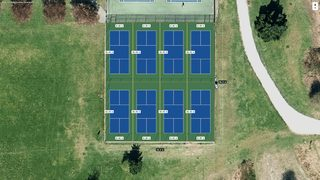
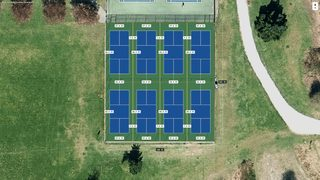
3d: feet by default (units=m for metres) and the spacing between neighbouring courts on the grid: 7.6 ft sideline to sideline, 16.4 ft baseline to baseline; grid pictures redone in feet, with metres versions of the aerial and plan
Claude-Session: https://claude.ai/code/session_01XZrTSL3wJyeVVwxpMARMFP

diff --git a/public/3d/index.html b/public/3d/index.html
@@ -103,7 +103,7 @@ body.clean #legend { top: 12px; }
     </div>
     <div class="bar" id="tools">
       <button data-t="grid">Grid</button>
-      <span class="units"><button data-u="m">m</button><button data-u="ft">ft</button></span>
+      <span class="units"><button data-u="ft">ft</button><button data-u="m">m</button></span>
       <button data-t="players">Players</button>
       <button data-t="lights">Lights</button>
     </div>
@@ -126,8 +126,8 @@ body.clean #legend { top: 12px; }
       <a class="th" href="/3d/media/grid-courtside.jpg" download><img src="/3d/media/thumb-grid-courtside.jpg" alt="" loading="lazy" width="320" height="180"><span>Courtside</span></a>
       <a class="th" href="/3d/media/grid-players.jpg" download><img src="/3d/media/thumb-grid-players.jpg" alt="" loading="lazy" width="320" height="180"><span>With players</span></a>
       <a class="th" href="/3d/media/grid-today.jpg" download><img src="/3d/media/thumb-grid-today.jpg" alt="" loading="lazy" width="320" height="180"><span>Today</span></a>
-      <a class="th" href="/3d/media/grid-above-feet.jpg" download><img src="/3d/media/thumb-grid-above-feet.jpg" alt="" loading="lazy" width="320" height="180"><span>From above, feet</span></a>
-      <a class="th" href="/3d/media/grid-aerial-feet.jpg" download><img src="/3d/media/thumb-grid-aerial-feet.jpg" alt="" loading="lazy" width="320" height="180"><span>Aerial, feet</span></a>
+      <a class="th" href="/3d/media/grid-above-metres.jpg" download><img src="/3d/media/thumb-grid-above-metres.jpg" alt="" loading="lazy" width="320" height="180"><span>From above, metres</span></a>
+      <a class="th" href="/3d/media/grid-aerial-metres.jpg" download><img src="/3d/media/thumb-grid-aerial-metres.jpg" alt="" loading="lazy" width="320" height="180"><span>Aerial, metres</span></a>
     </div>
     <h3>Without grid</h3>
     <div class="thumbs">
@@ -176,7 +176,7 @@ const PALETTES = [
   { id: 'slate', name: 'Blue on grey', surround: '#6b7470', court: '#2f5f9c', kitchen: '#2f5f9c' },
 ];
 
-const state = { view: 'aerial', mode: 'proposed', dividers: 'ft4', screen: true, palette: 'classic', players: true, lights: false, dusk: false, spin: false, grid: false, units: 'm' };
+const state = { view: 'aerial', mode: 'proposed', dividers: 'ft4', screen: true, palette: 'classic', players: true, lights: false, dusk: false, spin: false, grid: false, units: 'ft' };
 
 // ---------- renderer / scene ----------
 const stage = document.getElementById('stage');
@@ -503,6 +503,13 @@ xs.push(PAD_W / 2); zs.push(PAD_L / 2);
 // each chunk: its width near the outer fence, its length just inside its west edge
 const chunkW = courts.map((c) => label('', new THREE.Vector3(c.x, TOP, c.z > 0 ? PAD_L / 2 - 1 : -PAD_L / 2 + 1), { court: true }));
 const chunkL = courts.map((c) => label('', new THREE.Vector3(c.x - BAY_W / 2 + 1, TOP, c.z), { court: true }));
+// the spacing between neighbouring courts: sideline to sideline across each row (toward the outer fence, clear of the
+// chunk labels), and baseline to baseline between the two rows (down each column)
+for (let r = 0; r < ROWS; r++) for (let c = 0; c < COLS - 1; c++) {
+  const a = courts[r * COLS + c], b = courts[r * COLS + c + 1];
+  chain('x', [a.x + CW / 2, b.x - CW / 2], a.z + Math.sign(a.z) * 4.5, { court: true, prio: 0 });
+}
+for (let c = 0; c < COLS; c++) chain('z', [courts[c].z + CL / 2, courts[COLS + c].z - CL / 2], courts[c].x, { court: true, prio: 0 });
 // the whole place
 chain('x', [-PAD_W / 2, PAD_W / 2], PAD_L / 2 + 2.6, { cls: 'total' });
 chain('z', [-PAD_L / 2, PAD_L / 2], PAD_W / 2 + 2.6, { cls: 'total' });
@@ -511,7 +518,7 @@ function buildGrid() {
   if (gridUnits === state.units) return;
   gridUnits = state.units;
   for (const c of chains) {
-    const ft = Math.round(c.len / FT) + ' ft', m = c.len.toFixed(1) + ' m';
+    const ft = ftOf(c.len) + ' ft', m = mOf(c.len) + ' m';
     c.d.text = c.d.el.textContent = c.pre + (c.both ? (state.units === 'm' ? `${m} · ${ft}` : `${ft} · ${m}`) : state.units === 'm' ? m : ft);
   }
   const len = (m) => (state.units === 'm' ? m.toFixed(2) + ' m' : (m / FT).toFixed(1) + ' ft');
@@ -653,7 +660,7 @@ function stepReveal(dt) {
 }
 
 // ---------- every setting lives in the link ----------
-// ?mode=today|proposed &view=aerial|west|above|courtside|park|close &grid=1 &units=m|ft &fence=0|3|4 &screen=0
+// ?mode=today|proposed &view=aerial|west|above|courtside|park|close &grid=1 &units=ft|m &fence=0|3|4 &screen=0
 // &players=0 &lights=1 &dusk=1 &spin=1 &colour=classic|twotone|teal|slate &cam=x,y,z,tx,ty,tz,fov &ui=0 (no buttons)
 const DEF = { mode: 'proposed', screen: true, players: true, lights: false, dusk: false, spin: false };
 const VIEW_ALIAS = { west: 'aerial-west', above: 'plan', top: 'plan', courtside: 'court', park: 'wide', players: 'close' };
@@ -665,7 +672,7 @@ function readURL() {
   let v = (q.get('view') || location.hash.slice(1) || 'aerial').toLowerCase(); v = VIEW_ALIAS[v] || v;
   state.view = v in VIEWS || v === 'plan' ? v : 'aerial';
   state.mode = q.get('mode') === 'today' ? 'today' : 'proposed';
-  state.grid = b('grid', false); state.units = /^(f|i)/.test((q.get('units') || '').toLowerCase()) ? 'ft' : 'm';
+  state.grid = b('grid', false); state.units = /^m/.test((q.get('units') || '').toLowerCase()) ? 'm' : 'ft';
   const f = (q.get('fence') || '4').toLowerCase(); state.dividers = ['0', 'none', 'off', 'no', 'false'].includes(f) ? 'none' : f.startsWith('3') ? 'ft3' : 'ft4';
   for (const k of ['screen', 'players', 'lights', 'dusk', 'spin']) state[k] = b(k, DEF[k]);
   if (!q.has('dusk')) state.dusk = state.lights;
@@ -678,7 +685,7 @@ function writeURL() {
   if (state.mode !== DEF.mode) q.set('mode', state.mode);
   if (state.view !== 'aerial') q.set('view', VIEW_NAME[state.view] || state.view);
   if (state.grid) q.set('grid', '1');
-  if (state.units === 'ft') q.set('units', 'ft');
+  if (state.units === 'm') q.set('units', 'm');
   if (state.dividers !== 'ft4') q.set('fence', state.dividers === 'none' ? '0' : '3');
   for (const k of ['screen', 'players', 'lights', 'dusk', 'spin']) if (state[k] !== DEF[k] && !(k === 'dusk' && state.dusk === state.lights)) q.set(k, state[k] ? '1' : '0');
   if (state.palette !== 'classic') q.set('colour', state.palette);
